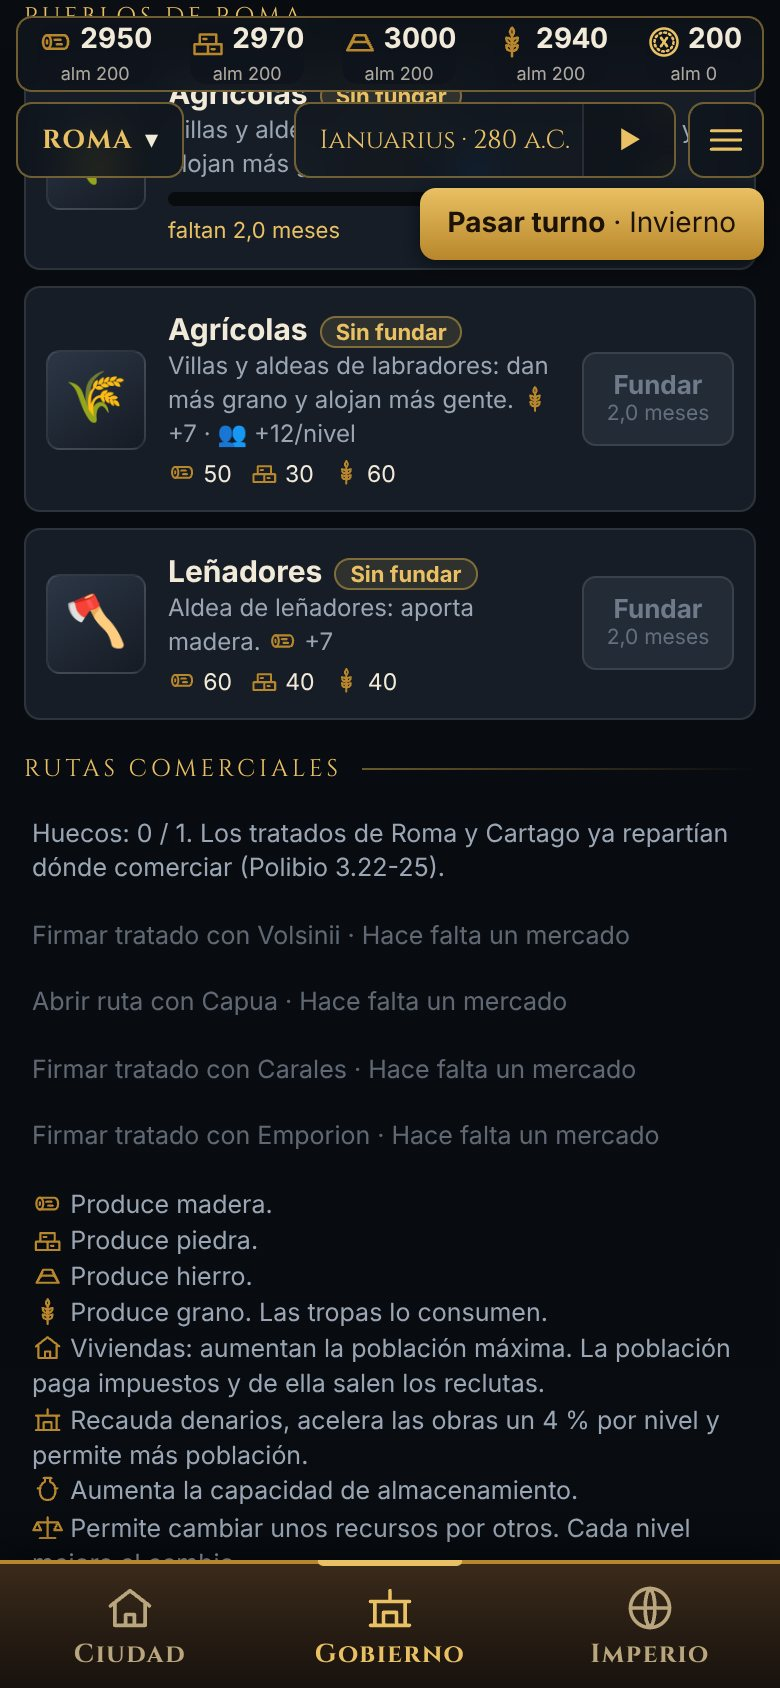
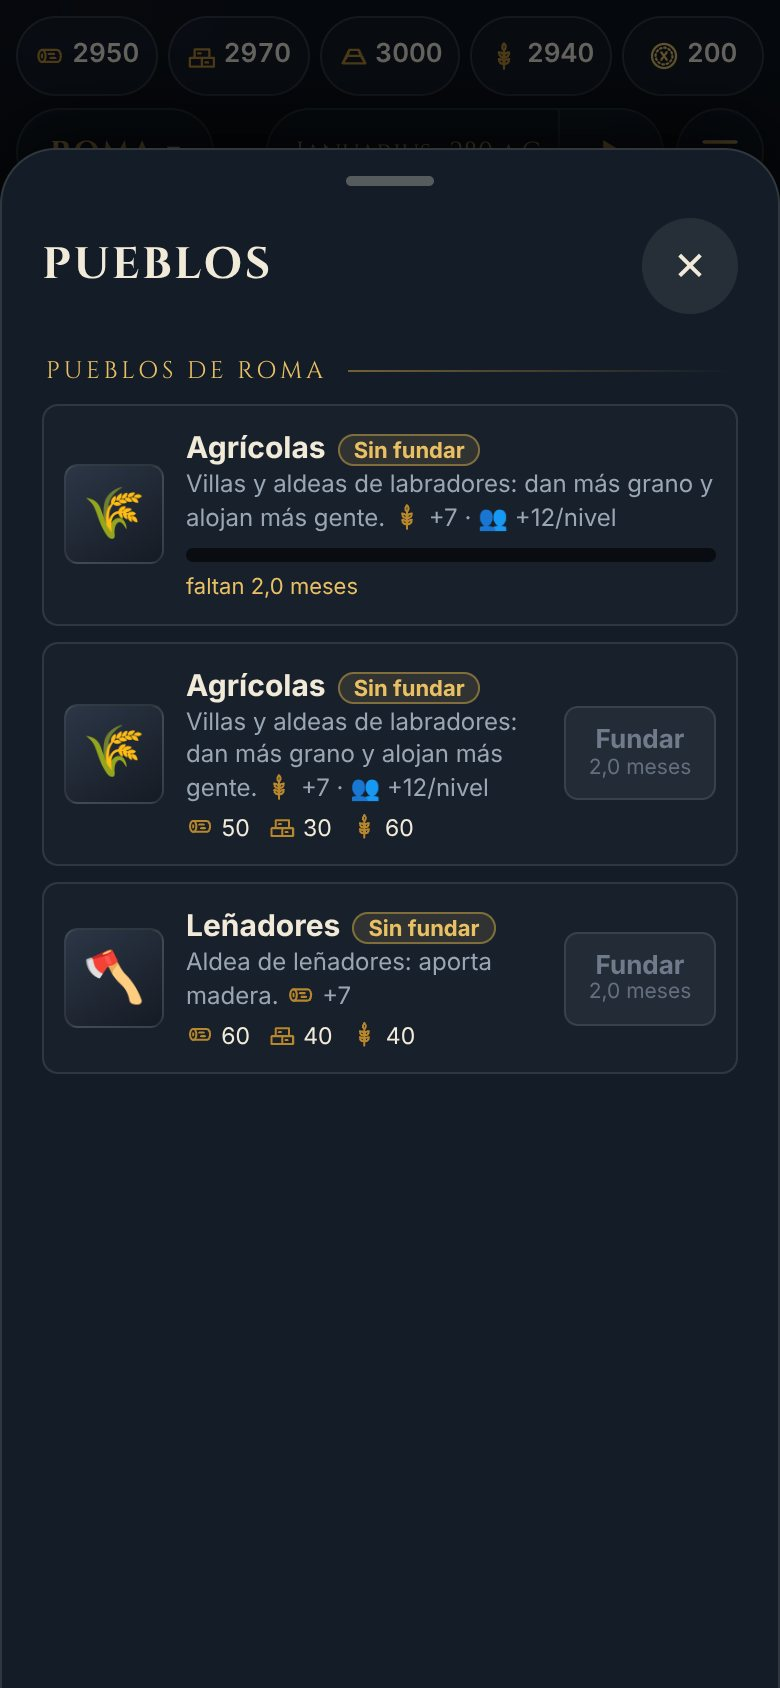
J3: atajo «Pueblos» en Gobierno, captura y parte al día
Claude-Session: https://claude.ai/code/session_01QiKC3Aas6h3qJ5CJxiVKdR

diff --git a/js/ui.js b/js/ui.js
@@ -373,6 +373,7 @@ const HOJAS = {
   mercado: { titulo: 'Mercado', alt: 1, html: () => marketHtml() || '<div class="empty">Sin mercado: construye uno para cambiar recursos.</div>' },
   rutas: { titulo: 'Rutas', alt: 2, html: () => rutasHtml(S().cities[cityOk()], UI.city) || '<div class="empty">Esta ciudad no tiene rutas.</div>' },
   pueblo: { titulo: 'Pueblo', alt: 2, html: () => { const c = S().cities[cityOk()]; return '<div class="empty">' + popHtml(c) + '</div>' + repartoHtml(c) + (c.owner === 'roma' ? '<div class="empty">' + tipoHtml(c) + '</div>' : ''); } },
+  aldeas: { titulo: 'Pueblos', alt: 2, html: () => pueblosHtml(S().cities[cityOk()]) || '<div class="empty">Solo en tus ciudades.</div>' },
   servicios: { titulo: 'Templo y forja', alt: 2, html: () => { const c = S().cities[cityOk()]; return (c.b.templo > 0 ? '<div class="empty">' + diosBloque(c, 'templo') + '</div>' : '') + forjaHtml(c); } },
   estado: { titulo: 'Estado de la ciudad', alt: 1, html: () => { const c = S().cities[cityOk()], f = Math.round(G.felicidad(c)); return '<div class="empty"><span class="stat">' + (f >= 60 ? '😊' : f >= 40 ? '😐' : '😠') + ' Felicidad <b>' + f + ' %</b></span>' + inqHtml(c) + '</div>' + (c.owner === 'roma' ? '<div class="empty">' + espResumen() + '</div>' : ''); } },
 };
@@ -602,7 +603,7 @@ function viewCity() {   // Gobierno (K12a): ciudad, felicidad, lo que falta y at
   return '<div class="gob"><div class="gnomb"><h2>' + d.n + '</h2><p>' + (UI.city === 'roma' ? 'Capital' : esc(G.tipoDe(c).n)) + ' · ' + Math.floor(c.pop) + ' habitantes</p></div>' +
     '<button class="gani" data-act="hoja" data-v="estado" aria-label="Felicidad ' + f + ' por ciento: ver el estado"><svg viewBox="0 0 120 120" aria-hidden="true"><circle class="gpista" cx="60" cy="60" r="' + R + '"/><circle class="gval" cx="60" cy="60" r="' + R + '" style="stroke:' + (f >= 60 ? 'var(--good)' : f >= 40 ? 'var(--gold)' : 'var(--bad)') + '" stroke-dasharray="' + (C * Math.max(0, Math.min(100, f)) / 100).toFixed(1) + ' ' + C.toFixed(1) + '" transform="rotate(-90 60 60)"/></svg><span class="gcen"><span class="gcara">' + cara + '</span><b>' + f + ' %</b><small>Felicidad</small></span></button>' +
     '<div class="gfalta"><span>Falta:</span>' + (fic || '<em>No falta nada</em>') + '</div>' +
-    '<div class="gatajos">' + at('mercado', ICO_MERC, 'Mercado', mer ? '' : 'Sin mercado', !mer) + (roma ? at('rutas', ICO_RUTA, 'Rutas', G.rutasDeCiudad(UI.city) + '/' + G.rutaMax(c)) : '') + at('pueblo', ICO_PUEB, 'Pueblo') + at('ajustes', ICO_AJ, 'Ajustes') + at('cron', ICO_CRON, 'Crónica') + (roma && (c.b.templo > 0 || c.b.herreria > 0) ? at('servicios', ICO_TEMPLO, 'Templo y forja') : '') + '</div>' +
+    '<div class="gatajos">' + at('mercado', ICO_MERC, 'Mercado', mer ? '' : 'Sin mercado', !mer) + (roma ? at('rutas', ICO_RUTA, 'Rutas', G.rutasDeCiudad(UI.city) + '/' + G.rutaMax(c)) : '') + at('pueblo', ICO_PUEB, 'Pueblo') + (roma ? at('aldeas', ICO_PUEB, 'Pueblos', G.pueblosDe(UI.city).filter(p => p.nivel > 0).length + '/' + G.pueblosDe(UI.city).length) : '') + at('ajustes', ICO_AJ, 'Ajustes') + at('cron', ICO_CRON, 'Crónica') + (roma && (c.b.templo > 0 || c.b.herreria > 0) ? at('servicios', ICO_TEMPLO, 'Templo y forja') : '') + '</div>' +
     (UI.cityV ? '<button class="gver" data-act="clist">Ver la ciudad en 3D</button>' : '') + '</div>';
 }
 /* ---------- J6 · Ciudad como pantalla principal ---------- */

diff --git a/gobierno/partes/2026-11-13-J3.md b/gobierno/partes/2026-11-13-J3.md
@@ -1,9 +1,10 @@
 # Parte · J3 Capital y pueblos · 2026-11-13
 **Resultado**: hecho. Cada ciudad es capital de su territorio; las regiones (`D.REGIONES`, I6) agrupan capitales y J3 no las toca.
-**Qué cambia para el jugador**: en la ficha de cada ciudad propia hay «Pueblos de <ciudad>» con 2 a 4 huecos (leñadores, canteros, mineros, pescadores solo con mar, agrícolas). Se funda y se mejora hasta nivel 5 (coste al contado, una obra de pueblo a la vez). Los pueblos dan recursos, los agrícolas más población, los pescadores grano y algo de oro; cada nivel cuesta mantenimiento. La ciudad (capital) sigue gobernando, reclutando y comerciando. Si no fundas pueblos, nada cambia (bot agresivo 10/10, pasivo 0/10).
-**Archivos**: js/data.js, js/game.js, js/registro.js (tipo `pueblo`, 5 fichas), js/ui.js (`pueblosHtml` y `case 'pueblo'`), test/sim.test.js (bloque J3), sw.js (caché v47).
+**Qué cambia para el jugador**: en Gobierno hay un atajo «Pueblos» (hoja inferior) que muestra «Pueblos de <ciudad>» con 2 a 4 huecos (leñadores, canteros, mineros, pescadores solo con mar, agrícolas). Se funda y se mejora hasta nivel 5 (coste al contado, una obra de pueblo a la vez). Los pueblos dan recursos, los agrícolas más población, los pescadores grano y algo de oro; cada nivel cuesta mantenimiento. La ciudad (capital) sigue gobernando, reclutando y comerciando. Si no fundas pueblos, nada cambia (bot agresivo 10/10, pasivo 0/10).
+**Archivos**: js/data.js, js/game.js, js/registro.js (tipo `pueblo`, 5 fichas), js/ui.js (`pueblosHtml`, hoja `aldeas`, atajo en Gobierno y `case 'pueblo'`), test/sim.test.js (bloque J3), sw.js (caché).
 **Jueces**: APTO 16/16 · fichas APTO. Captura: gobierno/capturas-tarea/J3-pueblos.jpg (390 px, sin errores de consola).
 **Cuentas**: presupuesto 1,3 M · gastado 0,88 M (−32 %) · todo Sonnet: director 0,47, constructor 0,41. Sin revisor ni verificador (diff aditivo y jueces en verde).
 **API para J4 (C4/C5)**: cada ciudad de `D.CITIES` ES la capital de su territorio (`G.esCapital(cid)` → true). Datos: `D.PUEBLO_TIPOS` (n, i, d, cat, prod, pop, cost, time, mar), `D.PUEBLO_MAX=5`, `D.CITIES[id].pueblos` = lista de tipos por hueco (rellena por riqueza y mar; explícita en 7 ciudades de Italia/Sicilia). Estado: `c.pueblos=[niveles]` (0 = sin fundar), `c.pobra={i,t0,t1}|null`; migra `G.migrarPueblos` en `G.load`. Funciones: `G.pueblosDe(cid)`, `G.puebloOk(cid,i)`, `G.puebloCoste`, `G.puebloTiempo`, `G.puebloMejorar(cid,i)`, `G.puebloProd(cid)`, `G.puebloPop(cid)`, `G.pueblosResumen()`. `G.prod`, `G.popCap` y `G.mantenimiento` ya los suman. Para ciudades nuevas de J4: basta añadir `pueblos:[...]` en `D.CITIES` (o dejar el relleno por defecto) y su ficha de ciudad. Las regiones ya existen (`D.REGIONES`, I6): J4 debe añadir las capitales nuevas a una región.
 **Queda pendiente**: línea «Pueblos» en Imperio (`G.pueblosResumen()` lista); fuentes de las 5 fichas citadas de memoria, sin cotejar (todas «licencia de juego»); `popCap` halla la ciudad por identidad de objeto (una copia clonada sumaría 0); cifras sin equilibrar con pueblos fundados; pueblos de ciudades enemigas sin uso.
 **Decide el usuario**: (1) Aviso de error mío: al empezar creí que I6 no estaba hecha porque mi copia local iba atrasada; sí lo estaba (tablero ✅ 12/11) y pregunté de más. J3 quedó compatible igualmente (los pueblos cuelgan de cada ciudad). (2) Otra sesión pidió seguir con J4, J5 y J8 en esta; no lo hice (una sesión, una tarea): dime tú si lo quieres.
+**Nota de cierre**: al fusionar con otras sesiones subí por error un commit con marcadores de conflicto; lo arreglé minutos después con otro commit (la rama quedó sana). Los jueces fallaron 3 veces por carga de la máquina y pasaron 29/29 con el mismo código.
